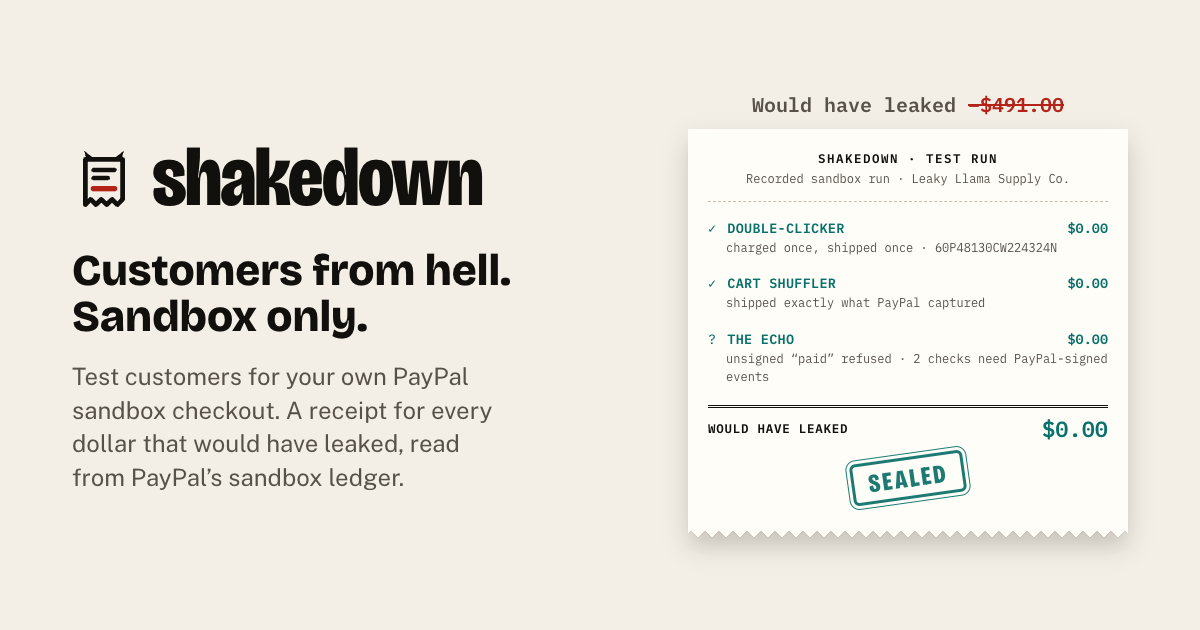
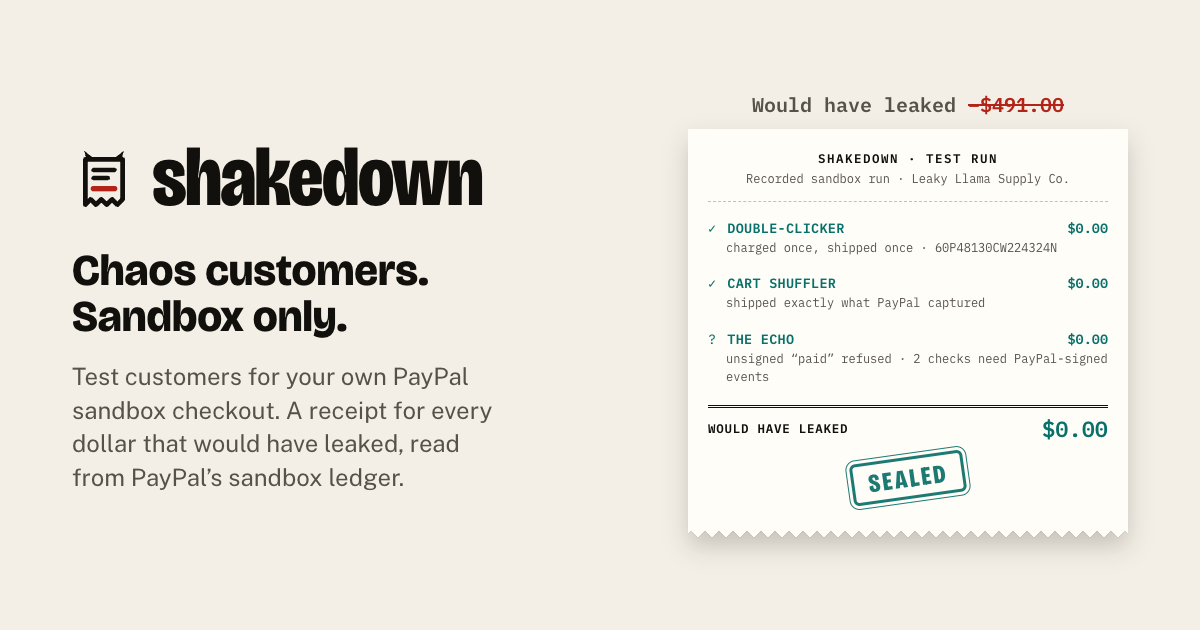
Wording: "chaos customers" instead of the old tagline
- The tagline is now "Chaos customers. Sandbox only." across the site, the
  CLI (help, run header), the reports, the CI workflow, the README and the
  video scripts. The old wording used a word with religious meaning.
- The link-preview image (og.png) is regenerated from the new card.
- A sealed run of one customer now reads "The chaos customer didn't get
  through." instead of "None of the 1 ... got through".
- The site and video copies of the CLI header say "1 chaos customer" for
  one, as the CLI does.
- Two re-voiced narration lines; one pause in the walkthrough trimmed so
  the film stays 2:55.8.
- CLI 0.2.4.

Changed region(s): [[0.0617, 0.3921, 0.4317, 0.5429]]

diff --git a/apps/video/src/script.ts b/apps/video/src/script.ts
@@ -133,7 +133,7 @@ export const SCENES = [
     title: 'Sandbox, scripts, and the five customers',
     seconds: 14.1,
     source: 'HYBRID',
-    vo: 'Shakedown runs in PayPal’s sandbox: pretend money, nothing really ships. Its five customers from hell are fixed scripts, not AI. Four test my checkout; one tests my shop’s AI assistant, Lulu.',
+    vo: 'Shakedown runs in PayPal’s sandbox: pretend money, nothing really ships. Its five chaos customers are fixed scripts, not AI. Four test my checkout; one tests my shop’s AI assistant, Lulu.',
   },
   {
     id: 'live',
@@ -168,7 +168,7 @@ export const SCENES = [
     title: 'Proof it works, how it decides, and the promise',
     seconds: 20.9,
     source: 'MG',
-    vo: `I tested the tester: every checkout bug I switched on was caught, with no false alarms. Claude runs Lulu, reads my policy, and explains; plain code decides. I also sent PayPal’s Agent Toolkit a fix for retried calls. Shakedown: let customers from hell find your leaks first.`,
+    vo: `I tested the tester: every checkout bug I switched on was caught, with no false alarms. Claude runs Lulu, reads my policy, and explains; plain code decides. I also sent PayPal’s Agent Toolkit a fix for retried calls. Shakedown: let chaos customers find your leaks first.`,
   },
 ] as const satisfies readonly Scene[]
 

diff --git a/apps/video/src/walkthrough/script.ts b/apps/video/src/walkthrough/script.ts
@@ -58,8 +58,8 @@ export const W_SCENES = [
     title: 'So I built Shakedown',
     seconds: 19.2,
     source: 'LIVE',
-    vo: 'A normal test won’t catch leaks like these, because test customers behave. So I built Shakedown. It sends customers from hell at your checkout, in PayPal’s sandbox. Five scripts, like the Double-Clicker and the Echo you just saw, and one that tests AI support assistants.',
-    pauses: { 1: 0.6, 2: 0.3, 3: 0.5 },
+    vo: 'A normal test won’t catch leaks like these, because test customers behave. So I built Shakedown. It sends chaos customers at your checkout, in PayPal’s sandbox. Five scripts, like the Double-Clicker and the Echo you just saw, and one that tests AI support assistants.',
+    pauses: { 1: 0.6, 2: 0.3, 3: 0.35 },
   },
   {
     id: 'w-cli',
@@ -91,7 +91,7 @@ export const W_SCENES = [
     title: 'Close',
     seconds: 9.5,
     source: 'MG',
-    vo: 'That’s Shakedown. Let customers from hell find your leaks, before your real customers do.',
+    vo: 'That’s Shakedown. Let chaos customers find your leaks, before your real customers do.',
     pauses: { 1: 0.3 },
   },
 ] as const satisfies readonly Scene[]

diff --git a/packages/reporters/src/markdown.ts b/packages/reporters/src/markdown.ts
@@ -16,8 +16,10 @@ export function markdownComment(report: ShakedownReport): string {
     totals.leaks === 0 && totals.sealed === 0
       ? `**Shakedown: inconclusive.** No check could be judged: see why below.`
       : totals.leaks === 0
-        ? `**Shakedown: sealed.** None of the ${totals.personasTested} customers from hell got through.`
-        : `**Shakedown: ${totals.personasLeaking} of ${totals.personasTested} customers from hell got through.** ${money(totals.merchantLeakCents)} at risk for the merchant, ${money(totals.customerHarmCents)} for customers.`
+        ? totals.personasTested === 1
+          ? '**Shakedown: sealed.** The chaos customer didn’t get through.'
+          : `**Shakedown: sealed.** None of the ${totals.personasTested} chaos customers got through.`
+        : `**Shakedown: ${totals.personasLeaking} of ${totals.personasTested} chaos customers got through.** ${money(totals.merchantLeakCents)} at risk for the merchant, ${money(totals.customerHarmCents)} for customers.`
 
   const rows = report.personas.map((persona) => {
     const checks = persona.scenarios.flatMap((scenario) => scenario.checks)

diff --git a/packages/reporters/src/formats.test.ts b/packages/reporters/src/formats.test.ts
@@ -95,14 +95,18 @@ describe('the PR comment', () => {
     const md = markdownComment(built)
 
     expect(md.startsWith(COMMENT_MARKER)).toBe(true)
-    expect(md).toContain('1 of 1 customers from hell got through')
+    expect(md).toContain('1 of 1 chaos customers got through')
     expect(md).toContain('| 3. The Echo |')
     expect(md.match(/<details>/g)).toHaveLength(built.totals.leaks)
     expect(md).toContain('no real money moved')
   })
 
-  it('says sealed when nothing got through', async () => {
-    expect(markdownComment(await report(SEALED))).toContain('**Shakedown: sealed.**')
+  it('says sealed when nothing got through, in the singular for one customer', async () => {
+    const sealed = await report(SEALED)
+    expect(markdownComment(sealed)).toContain('**Shakedown: sealed.**')
+    if (sealed.totals.personasTested === 1)
+      expect(markdownComment(sealed)).toContain('The chaos customer didn’t get through.')
+    expect(markdownComment(sealed)).not.toContain('None of the 1 ')
   })
 
   it('never lets a store reply turn into markup', async () => {

diff --git a/apps/web/lib/landing-snippets.ts b/apps/web/lib/landing-snippets.ts
@@ -43,7 +43,7 @@ export function landingSnippets(): LandingSnippets {
   const cliOutput = [
     '$ npx @shakedown-dev/cli run --target http://localhost:3100',
     '',
-    `  Shakedown → http://localhost:3100 · seed ${result.seed} · ${personas.length} customers from hell`,
+    `  Shakedown → http://localhost:3100 · seed ${result.seed} · ${personas.length} chaos ${personas.length === 1 ? 'customer' : 'customers'}`,
     '',
     ...progress,
     '',
@@ -68,7 +68,7 @@ export function landingSnippets(): LandingSnippets {
   return {
     cliOutput,
     comment: {
-      headline: `Shakedown: ${leaking.length} of ${personas.length} customers from hell got through. ${usd(result.merchantLeakCents)} at risk for the merchant, ${usd(result.customerHarmCents)} for customers.`,
+      headline: `Shakedown: ${leaking.length} of ${personas.length} chaos customers got through. ${usd(result.merchantLeakCents)} at risk for the merchant, ${usd(result.customerHarmCents)} for customers.`,
       rows,
     },
   }

diff --git a/packages/reporters/src/html.ts b/packages/reporters/src/html.ts
@@ -128,7 +128,7 @@ footer{color:var(--muted);font-size:13px;margin-top:24px;text-align:center}
 <div class="total ${totals.customerHarmCents ? 'bad' : 'good'}"><b>${money(totals.customerHarmCents)}</b><span>Customer harm: customers charged for nothing</span></div>
 </div>
 ${verdict}
-<p class="sub">${totals.personasLeaking} of ${totals.personasTested} customers from hell got through · ${totals.sealed} sealed · ${totals.inconclusive} inconclusive · ${totals.skipped} skipped${report.ai ? ` · Claude spend $${report.ai.spentUsd.toFixed(4)}` : ''}</p>
+<p class="sub">${totals.personasLeaking} of ${totals.personasTested} chaos customers got through · ${totals.sealed} sealed · ${totals.inconclusive} inconclusive · ${totals.skipped} skipped${report.ai ? ` · Claude spend $${report.ai.spentUsd.toFixed(4)}` : ''}</p>
 ${campaign.stoppedEarly ? `<p class="error">Stopped early: ${esc(campaign.stoppedEarly)}</p>` : ''}
 ${personas}
 </div>

diff --git a/apps/video/src/DevpostThumbnail.tsx b/apps/video/src/DevpostThumbnail.tsx
@@ -16,7 +16,7 @@ const POSE: Partial<Record<PersonaId, { x: number; size: number; tilt: number }>
 /** The receipt's torn top edge, where the imps stand. */
 const EDGE = 770
 
-/** The Devpost cover, 3:2: the customers from hell themselves, what each one cost, the total. */
+/** The Devpost cover, 3:2: the chaos customers themselves, what each one cost, the total. */
 export function DevpostThumbnail() {
   const lines = runs.hero.before as { personaId: PersonaId; amountCents: number }[]
   return (
@@ -36,7 +36,7 @@ export function DevpostThumbnail() {
             letterSpacing: '-0.01em',
           }}
         >
-          <span style={{ background: C.highlighter, padding: '0 16px' }}>customers from hell</span>
+          <span style={{ background: C.highlighter, padding: '0 16px' }}>chaos customers</span>
         </div>
       </AbsoluteFill>
 

diff --git a/apps/video/src/Teaser.tsx b/apps/video/src/Teaser.tsx
@@ -142,7 +142,7 @@ export function Teaser() {
           Every test passed.
         </Say>
         <Say from={64} to={cut.totalAt}>
-          Then the customers from hell showed up.
+          Then the chaos customers showed up.
         </Say>
       </Sequence>
       <Sequence from={cut.totalAt} durationInFrames={cut.castAt - cut.totalAt}>
@@ -248,7 +248,7 @@ export function Teaser() {
               fontVariationSettings: '"wdth" 80',
             }}
           >
-            Let the customers from hell find your leaks first.
+            Let chaos customers find your leaks first.
           </div>
           <div style={{ color: C.sealedOnInk, font: `600 40px ${FONT.mono}` }}>
             PayPal sandbox only

diff --git a/packages/cli/src/run.ts b/packages/cli/src/run.ts
@@ -160,7 +160,7 @@ export async function runCommand(flags: RunFlags, io: RunIo): Promise<number> {
   const bus = new EventBus()
   showProgress(bus, io.log)
   io.log(
-    `\n  Shakedown → ${target.origin} · seed ${settings.seed} · ${settings.cast.length} ${settings.cast.length === 1 ? 'customer' : 'customers'} from hell${mode ? ' · switches set for this run' : ''}\n`,
+    `\n  Shakedown → ${target.origin} · seed ${settings.seed} · ${settings.cast.length} chaos ${settings.cast.length === 1 ? 'customer' : 'customers'}${mode ? ' · switches set for this run' : ''}\n`,
   )
   const result = await runCampaign({
     target,

diff --git a/apps/video/scripts/cli-output.ts b/apps/video/scripts/cli-output.ts
@@ -64,7 +64,7 @@ function terminal(file: string, target: string) {
     view: {
       campaignId: result.campaignId,
       command: `npx @shakedown-dev/cli run --target ${target}`,
-      header: `  Shakedown → ${target} · seed ${result.seed} · ${personas.size} customers from hell`,
+      header: `  Shakedown → ${target} · seed ${result.seed} · ${personas.size} chaos ${personas.size === 1 ? 'customer' : 'customers'}`,
       progress: progress.map((line) =>
         line.includes('✗') ? segments(line.replace('✗', '\u001B[38;5;203m✗\u001B[0m')) : [[line]],
       ),

diff --git a/apps/web/app/page.tsx b/apps/web/app/page.tsx
@@ -20,10 +20,10 @@ const DESCRIPTION =
   'Five test customers run your own PayPal sandbox checkout. You get a receipt for every dollar that would have leaked, plus the fix.'
 
 export const metadata: Metadata = {
-  title: 'Shakedown: customers from hell for your PayPal sandbox',
+  title: 'Shakedown: chaos customers for your PayPal sandbox',
   description: DESCRIPTION,
   openGraph: {
-    title: 'Shakedown: customers from hell. Sandbox only.',
+    title: 'Shakedown: chaos customers. Sandbox only.',
     description: DESCRIPTION,
     images: [
       {

diff --git a/apps/web/e2e/landing.spec.ts b/apps/web/e2e/landing.spec.ts
@@ -18,7 +18,7 @@ const total = (page: Page, tone: 'leak' | 'sealed') =>
 test('the hero prints the recorded run, then seals it to $0.00', async ({ page }) => {
   await page.goto('/')
   await expect(page.getByRole('heading', { level: 1 })).toHaveText(
-    'Meet your customers from hell. In the sandbox.',
+    'Meet your chaos customers. In the sandbox.',
   )
   await expect(page.locator('.hero .sd-tape__meta').first()).toHaveText(
     'Sandbox · Leaky Llama Supply Co. · run 74A923AC',
